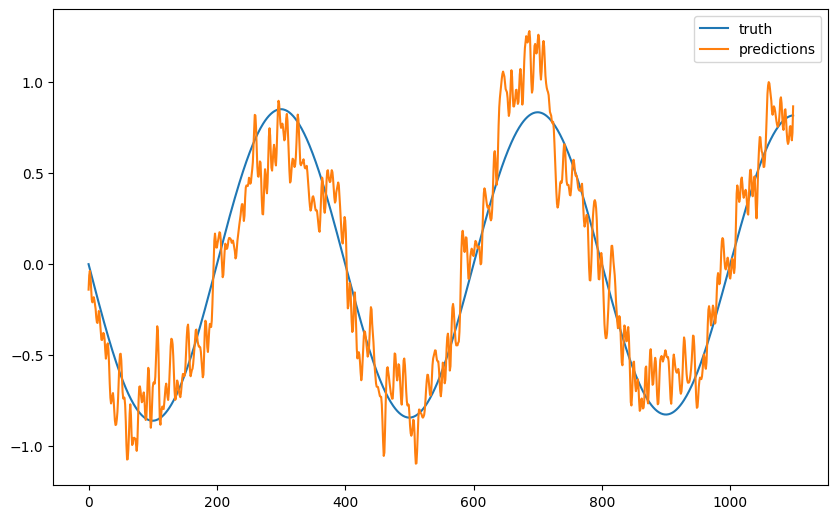
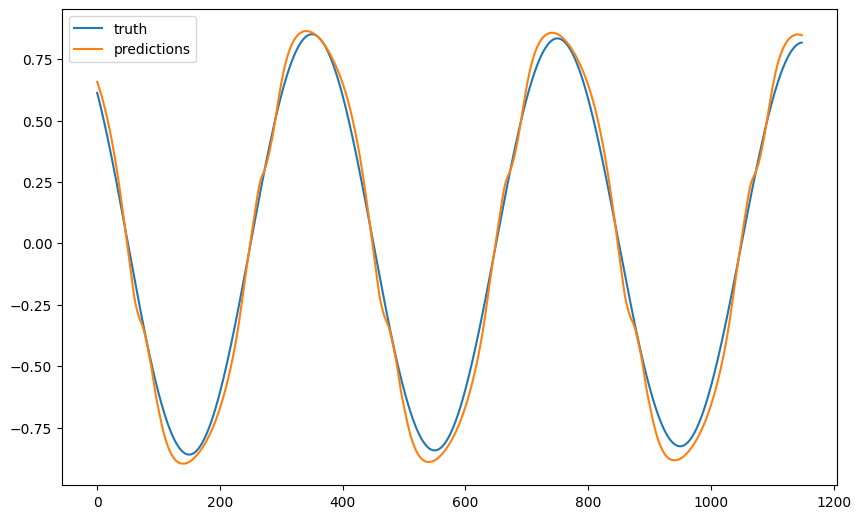
update rnn

diff --git a/dl/notebooks/rnn_timeseries.py b/dl/notebooks/rnn_timeseries.py
@@ -13,9 +13,9 @@
 #     name: deep-learning
 # ---
 
-# # Transformer for Univariate Time Series Forecasting
+# # RNN for Univariate Time Series Forecasting
 #
-# In this notebook, we build a transformer using pytorch to forecast $\sin$ function as a time series.
+# In this notebook, we build a RNN using pytorch to forecast $\sin$ function as a time series.
 
 # +
 import math
@@ -149,89 +149,58 @@ df.plot(x="t", y="theta", ax=ax)
 
 # ## Model
 #
-# In this section, we create the transformer model.
-
-# Since we do not deal with future covariates, we do not need a decoder. In this example, we build a simple transformer that only contains attention in encoder.
+# In this section, we create the RNN model.
 
 
 # +
 @dataclasses.dataclass
-class TSTransformerParams:
-    """A dataclass to be served as our parameters for the model."""
+class TSRNNParams:
+    """A dataclass to be served as our parameters for the model.
 
-    d_model: int = 512
-    nhead: int = 8
-    num_encoder_layers: int = 6
-    dropout: int = 0.1
-
-
-class PositionalEncoding(nn.Module):
-    """Positional encoding for our transformer.
-
-    We borrowed it from https://pytorch.org/tutorials/beginner/transformer_tutorial.html
+    :param hidden_size: number of dimensions in the hidden state
+    :param input_size: input dim
+    :param num_layers: number of units stacked
     """
 
-    def __init__(self, d_model: int, dropout: float = 0.1, max_len: int = 5000):
-        super().__init__()
-        self.dropout = nn.Dropout(p=dropout)
-
-        position = torch.arange(max_len).unsqueeze(1)
-        div_term = torch.exp(
-            torch.arange(0, d_model, 2) * (-math.log(10000.0) / d_model)
-        )
-        pe = torch.zeros(max_len, d_model)
-        pe[:, 0::2] = torch.sin(position * div_term)
-        pe[:, 1::2] = torch.cos(position * div_term)
-        self.register_buffer("pe", pe)
-
-    def forward(self, x: torch.Tensor) -> torch.Tensor:
-        """
-        :param x: Tensor, shape `[seq_len, batch_size, embedding_dim]`
-        """
-        x = x + self.pe[: x.size(0)]
-        return self.dropout(x)
+    input_size: int
+    hidden_size: int
+    num_layers: int = 1
 
 
-class TSTransformer(nn.Module):
-    """Transformer for univaraite time series modeling.
+class TSRNN(nn.Module):
+    """RNN for univaraite time series modeling.
 
     :param history_length: the length of the input history.
     :param horizon: the number of steps to be forecasted.
-    :param transformer_params: the parameters for the transformer.
+    :param rnn_params: the parameters for the RNN network.
     """
 
-    def __init__(
-        self, history_length: int, horizon: int, transformer_params: TSTransformerParams
-    ):
+    def __init__(self, history_length: int, horizon: int, rnn_params: TSRNNParams):
         super().__init__()
-        self.transformer_params = transformer_params
+        self.rnn_params = rnn_params
         self.history_length = history_length
         self.horizon = horizon
 
-        self.regulate_input = nn.Linear(
-            self.history_length, self.transformer_params.d_model
-        )
-        self.regulate_output = nn.Linear(self.transformer_params.d_model, self.horizon)
+        self.regulate_input = nn.Linear(self.history_length, self.rnn_params.input_size)
 
-        encoder_layer = nn.TransformerEncoderLayer(
-            d_model=self.transformer_params.d_model,
-            nhead=self.transformer_params.nhead,
+        self.rnn = nn.RNN(
+            input_size=self.rnn_params.input_size,
+            hidden_size=self.rnn_params.hidden_size,
+            num_layers=self.rnn_params.num_layers,
             batch_first=True,
         )
-        self.encoder = nn.TransformerEncoder(
-            encoder_layer, num_layers=self.transformer_params.num_encoder_layers
-        )
+
+        self.regulate_output = nn.Linear(self.rnn_params.hidden_size, self.horizon)
 
     @property
-    def transformer_config(self):
-        return dataclasses.asdict(self.transformer_params)
+    def rnn_config(self):
+        return dataclasses.asdict(self.rnn_params)
 
     def forward(self, x: torch.Tensor) -> torch.Tensor:
         x = self.regulate_input(x)
+        x, _ = self.rnn(x)
 
-        encoder_state = self.encoder(x)
-
-        return self.regulate_output(encoder_state)
+        return self.regulate_output(x)
 
 
 # -
@@ -242,14 +211,14 @@ class TSTransformer(nn.Module):
 
 # ### Training Utilities
 
-history_length = 50
+history_length = 100
 horizon = 1
 
 
 # We will build a few utilities
 #
 # 1. To be able to feed the data into our model, we build a class (`DataFrameDataset`) that converts the pandas dataframe into a Dataset for pytorch.
-# 2. To make the lightning training code simpler, we will build a [LightningDataModule](https://lightning.ai/docs/pytorch/stable/data/datamodule.html) (`PendulumDataModule`) and a [LightningModule](https://lightning.ai/docs/pytorch/stable/common/lightning_module.html) (`TransformerForecaster`).
+# 2. To make the lightning training code simpler, we will build a [LightningDataModule](https://lightning.ai/docs/pytorch/stable/data/datamodule.html) (`PendulumDataModule`) and a [LightningModule](https://lightning.ai/docs/pytorch/stable/common/lightning_module.html) (`RNNForecaster`).
 
 
 # +
@@ -415,10 +384,10 @@ class PendulumDataModule(L.LightningDataModule):
         )
 
 
-class TransformerForecaster(L.LightningModule):
-    def __init__(self, transformer: nn.Module):
+class RNNForecaster(L.LightningModule):
+    def __init__(self, rnn: nn.Module):
         super().__init__()
-        self.transformer = transformer
+        self.rnn = rnn
 
     def configure_optimizers(self):
         optimizer = torch.optim.SGD(self.parameters(), lr=1e-3)
@@ -429,7 +398,7 @@ class TransformerForecaster(L.LightningModule):
         x = x.squeeze().type(self.dtype)
         y = y.squeeze(-1).type(self.dtype)
 
-        y_hat = self.transformer(x)
+        y_hat = self.rnn(x)
 
         loss = nn.functional.mse_loss(y_hat, y)
         self.log_dict({"train_loss": loss}, prog_bar=True)
@@ -440,7 +409,7 @@ class TransformerForecaster(L.LightningModule):
         x = x.squeeze().type(self.dtype)
         y = y.squeeze(-1).type(self.dtype)
 
-        y_hat = self.transformer(x)
+        y_hat = self.rnn(x)
 
         loss = nn.functional.mse_loss(y_hat, y)
         self.log_dict({"val_loss": loss}, prog_bar=True)
@@ -451,12 +420,12 @@ class TransformerForecaster(L.LightningModule):
         x = x.squeeze().type(self.dtype)
         y = y.squeeze(-1).type(self.dtype)
 
-        y_hat = self.transformer(x)
+        y_hat = self.rnn(x)
         return x, y_hat
 
     def forward(self, x):
         x = x.squeeze().type(self.dtype)
-        return x, self.transformer(x)
+        return x, self.rnn(x)
 
 
 # -
@@ -476,18 +445,18 @@ pdm = PendulumDataModule(
 # #### LightningModule
 
 # +
-ts_transformer_params = TSTransformerParams(d_model=96, nhead=6, num_encoder_layers=1)
+ts_rnn_params = TSRNNParams(input_size=96, hidden_size=64, num_layers=1)
 
-ts_transformer = TSTransformer(
+ts_rnn = TSRNN(
     history_length=history_length,
     horizon=horizon,
-    transformer_params=ts_transformer_params,
+    rnn_params=ts_rnn_params,
 )
 
-ts_transformer
+ts_rnn
 # -
 
-transformer_forecaster = TransformerForecaster(transformer=ts_transformer)
+rnn_forecaster = RNNForecaster(rnn=ts_rnn)
 
 # #### Trainer
 
@@ -496,17 +465,17 @@ trainer = L.Trainer(
     max_epochs=100,
     min_epochs=5,
     callbacks=[
-        EarlyStopping(monitor="val_loss", mode="min", min_delta=1e-7, patience=3)
+        EarlyStopping(monitor="val_loss", mode="min", min_delta=1e-4, patience=2)
     ],
 )
 
 # #### Fitting
 
-trainer.fit(model=transformer_forecaster, datamodule=pdm)
+trainer.fit(model=rnn_forecaster, datamodule=pdm)
 
 # #### Retrieving Predictions
 
-predictions = trainer.predict(model=transformer_forecaster, datamodule=pdm)
+predictions = trainer.predict(model=rnn_forecaster, datamodule=pdm)
 
 prediction_inputs = [i[0] for i in pdm.predict_dataloader()]
 prediction_truths = [i[1].squeeze() for i in pdm.predict_dataloader()]

diff --git a/dl/time-series-deep-learning/timeseries.rnn.md b/dl/time-series-deep-learning/timeseries.rnn.md
@@ -1,1 +1,106 @@
 # Forecasting with RNN
+
+!!! info ":material-code-json: Jupyter Notebook Available"
+    We have a [:notebook: notebook](../../notebooks/rnn_timeseries) for this section which includes all the code used in this section.
+
+
+!!! info ":simple-abstract: Introduction to Neural Networks"
+    We explain the theories of neural networks in [this section](../recurrent-neural-networks.md). Please read it first if you are not familiar with neural networks.
+
+
+In section [Recurrent Neural Network](../recurrent-neural-networks.md) we discussed the basics of RNN. In this section, we will build an RNN model to forecast our [pendulum time series data](timeseries.dataset.pendulum.md).
+
+## RNN Model
+
+
+=== ":simple-abstract: RNN Model Description"
+
+    We build an RNN model with an input size of 96, a hidden size of 64 and one single layer.
+
+=== ":material-code-json: RNN Model Code"
+
+    ```python
+    from typing import Dict
+
+    import dataclasses
+
+    from torch.utils.data import Dataset, DataLoader
+    from torch import nn
+    import torch
+
+
+    @dataclasses.dataclass
+    class TSRNNParams:
+        """A dataclass to be served as our parameters for the model.
+
+        :param hidden_size: number of dimensions in the hidden state
+        :param input_size: input dim
+        :param num_layers: number of units stacked
+        """
+
+        input_size: int
+        hidden_size: int
+        num_layers: int = 1
+
+
+    class TSRNN(nn.Module):
+        """RNN for univaraite time series modeling.
+
+        :param history_length: the length of the input history.
+        :param horizon: the number of steps to be forecasted.
+        :param rnn_params: the parameters for the RNN network.
+        """
+
+        def __init__(self, history_length: int, horizon: int, rnn_params: TSRNNParams):
+            super().__init__()
+            self.rnn_params = rnn_params
+            self.history_length = history_length
+            self.horizon = horizon
+
+            self.regulate_input = nn.Linear(
+                self.history_length, self.rnn_params.input_size
+            )
+
+            self.rnn = nn.RNN(
+                input_size=self.rnn_params.input_size,
+                hidden_size=self.rnn_params.hidden_size,
+                num_layers=self.rnn_params.num_layers,
+                batch_first=True
+            )
+
+            self.regulate_output = nn.Linear(
+                self.rnn_params.hidden_size, self.horizon
+            )
+
+        @property
+        def rnn_config(self) -> Dict:
+            return dataclasses.asdict(self.rnn_params)
+
+        def forward(self, x: torch.Tensor) -> torch.Tensor:
+            x = self.regulate_input(x)
+            x, _ = self.rnn(x)
+
+            return self.regulate_output(x)
+    ```
+
+
+## Training
+
+?? info "Training"
+
+    The details for model training can be found in this [:notebook: notebook](../../notebooks/rnn_timeseries_univariate). We will skip the details but show the loss curve here.
+
+    ![Training](assets/timeseries.rnn/rnn_univariate_pendulum_training.png)
+
+
+With just a few seconds of training, our RNN model can capture the pattern of the pendulum time series data.
+
+![RNN Result (Univariate, Horizon 1)](assets/timeseries.rnn/rnn_univariate_pendulum_results.png)
+
+The metrics are listed in the following table.
+
+| Metric | Value |
+| --- | --- |
+| Mean Absolute Error | 0.0112 |
+| Mean Squared Error | 0.0002 |
+| Symmetric Mean Absolute Percentage Error | 0.0601 |

diff --git a/dl/time-series-deep-learning/timeseries.transformer.md b/dl/time-series-deep-learning/timeseries.transformer.md
@@ -51,7 +51,7 @@ encoder --> output_linear_layer
 
     ![Training](assets/timeseries.transformer/vanilla_transformer_univariate_pendulum_training.png)
 
-We trained the model using a history length of 100 and plotted the forecasts for a test dataset that was held out from training. The forecasts are plotted in red and the ground truth is plotted in blue.
+We trained the model using a history length of 50 and plotted the forecasts for a test dataset that was held out from training. The forecasts are plotted in red and the ground truth is plotted in blue.
 
 ![Vanilla Transformer Result (Univariate, Horizon 1)](assets/timeseries.transformer/transformer_univariate_forecasting_result.png)
 
@@ -59,9 +59,9 @@ The forecasts roughly captured the patterns of the pendulum. To quantify the res
 
 | Metric | Value |
 | --- | --- |
-| Mean Absolute Error | 0.2311 |
-| Mean Squared Error | 0.0836 |
-| Symmetric Mean Absolute Percentage Error | 0.7106 |
+| Mean Absolute Error | 0.0476 |
+| Mean Squared Error | 0.0030 |
+| Symmetric Mean Absolute Percentage Error | 0.1460 |
 
 
 ## Generalization

diff --git a/dl/time-series-deep-learning/timeseries.feedforward.md b/dl/time-series-deep-learning/timeseries.feedforward.md
@@ -44,15 +44,9 @@ Feedforward neural networks are simple but powerful models for time series forec
 === ":material-code-json: Code"
 
     ```python
-    import math
-    from functools import cached_property
-    from typing import Dict, List, Tuple
-
-    import pandas as pd
-    import numpy as np
+    from typing import Dict, List
 
     import dataclasses
-    from loguru import logger
 
     from torch.utils.data import Dataset, DataLoader
     from torch import nn
@@ -105,7 +99,7 @@ Feedforward neural networks are simple but powerful models for time series forec
             )
 
         @property
-        def ffn_config(self):
+        def ffn_config(self) -> Dict:
             return dataclasses.asdict(self.ffn_params)
 
         def _linear_block(self, dim_in, dim_out):
